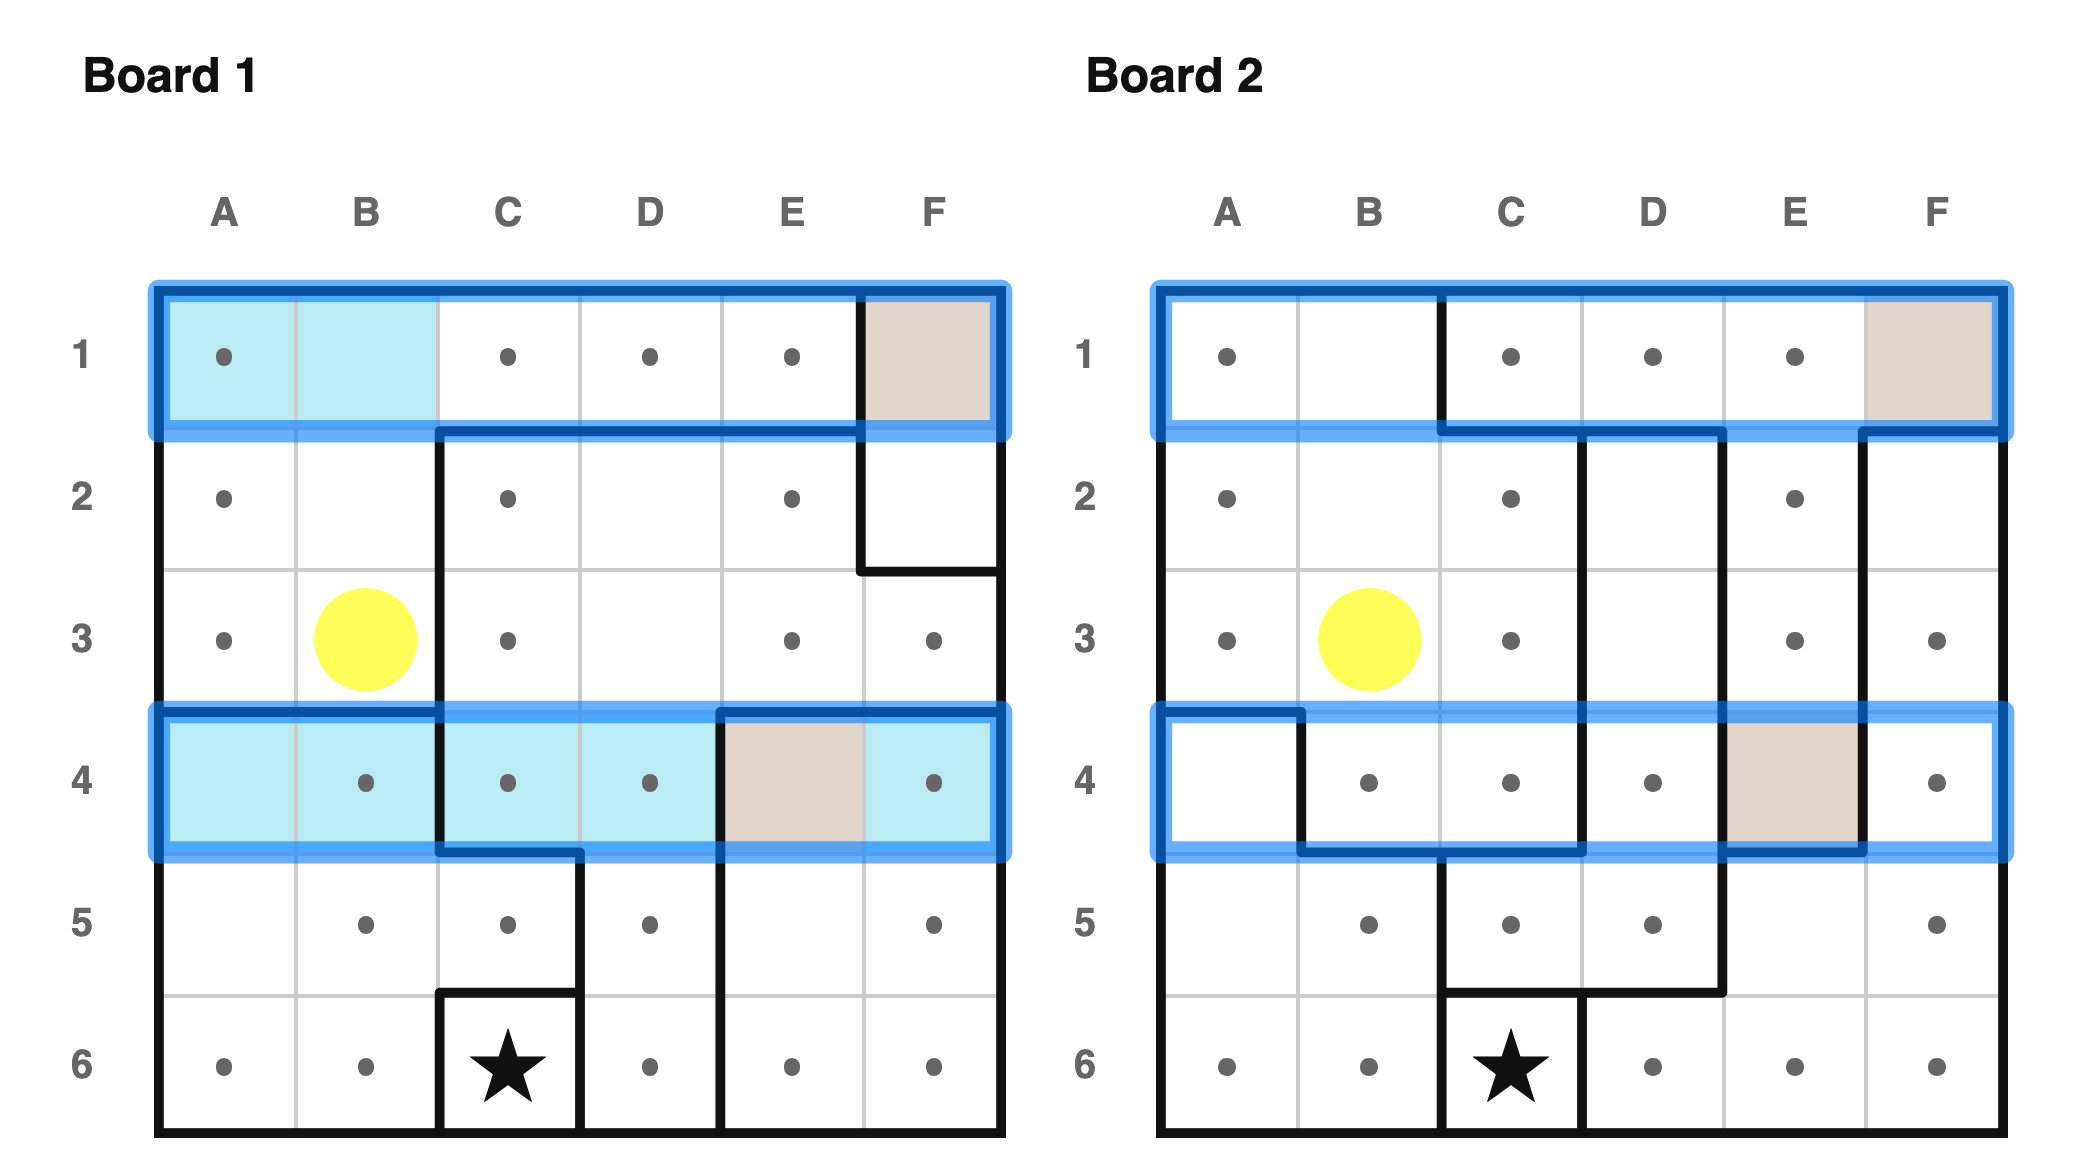
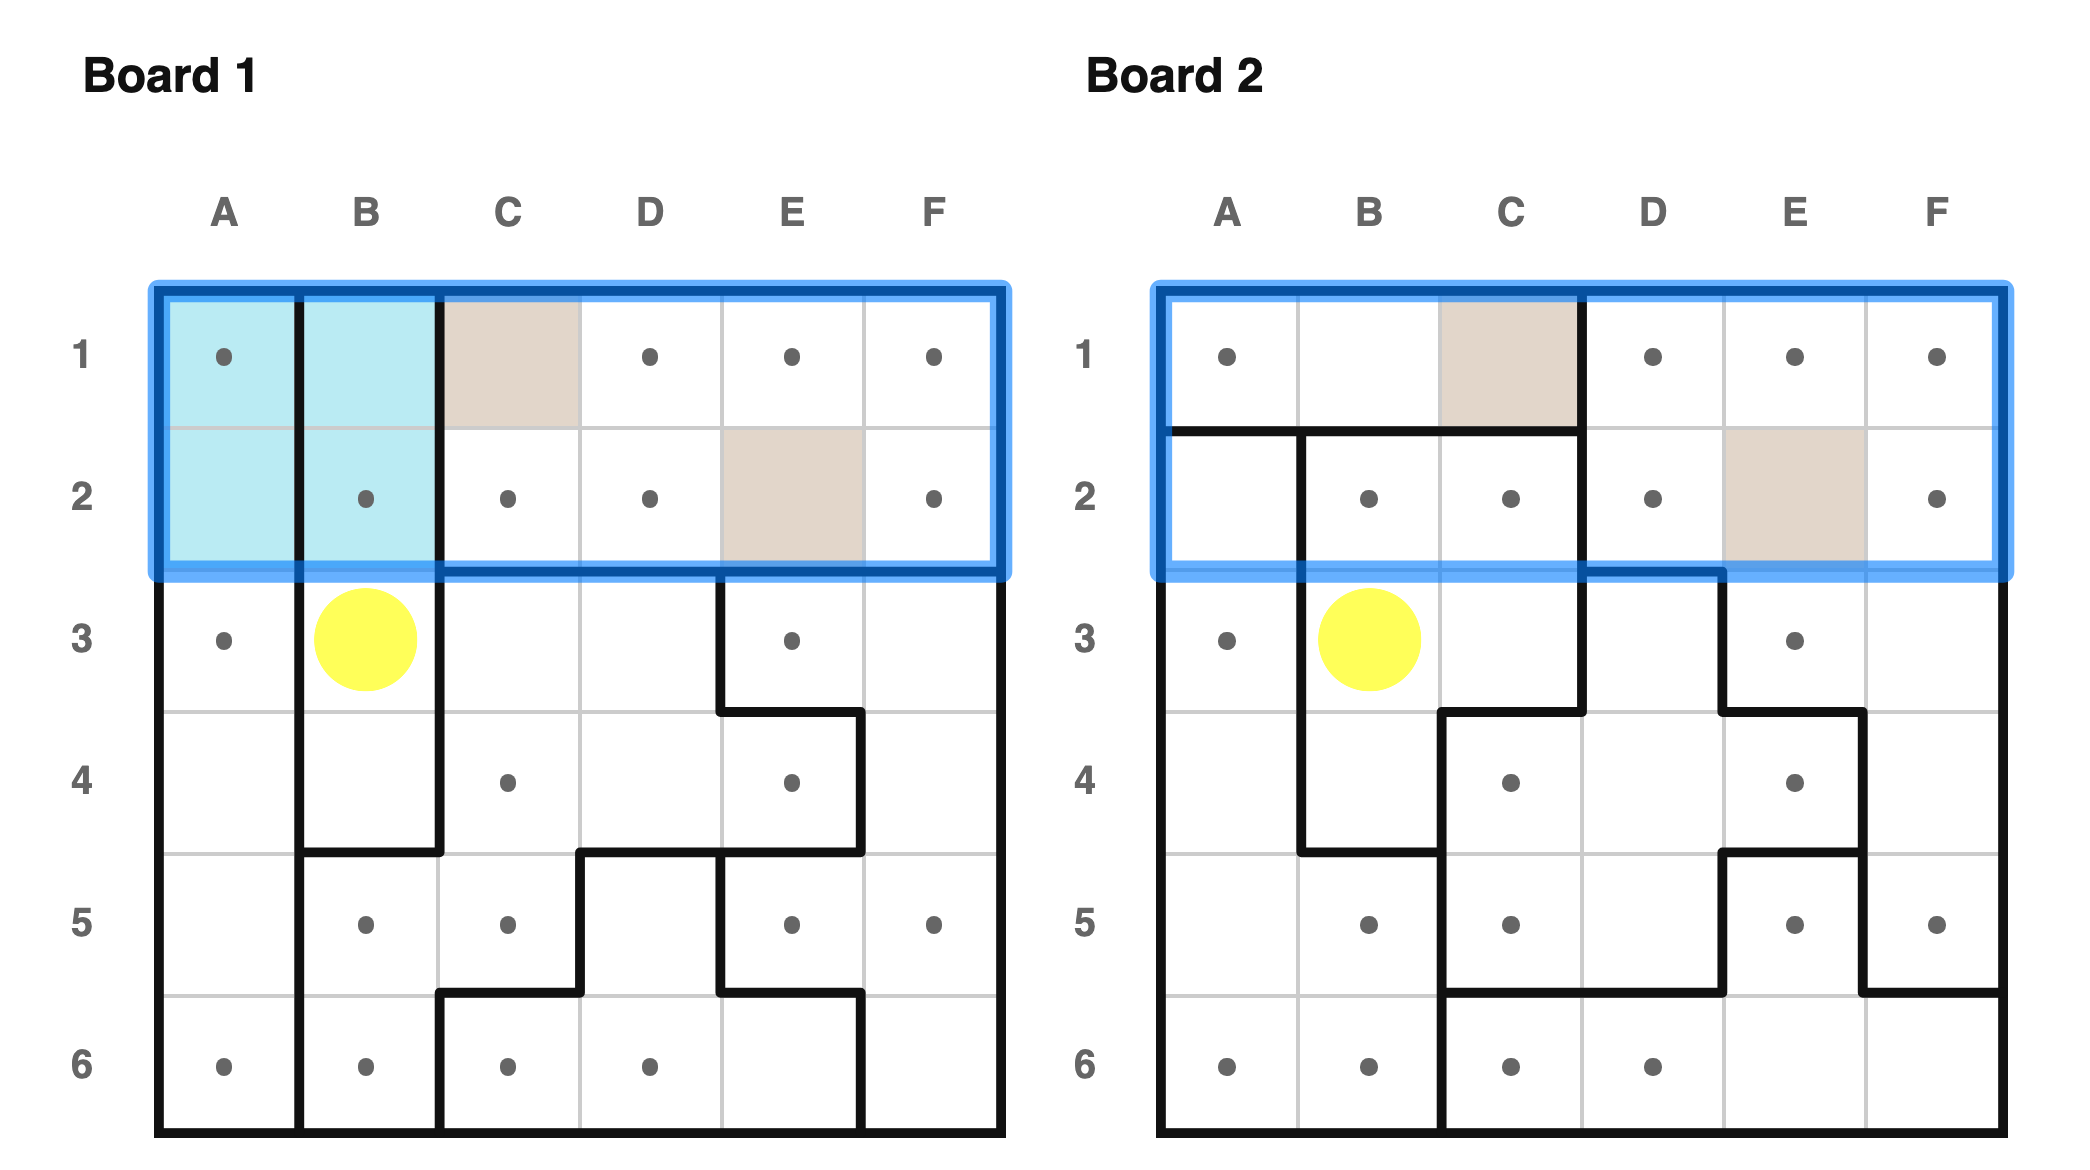
Split region algebra: touching pairs stay Expert, apart pairs become Grandmaster
Region algebra now only fires at Expert when units A and B share an edge;
the non-touching case is a new Grandmaster rule (rule_region_algebra_apart /
hintRegionAlgebra(true)), exempt from the 3-star+ Grandmaster cutoff.
Regionless puzzles are unchanged. Python and JS agree on 450 sampled puzzles.

Armory #41 and the how-to-solve docs now use a touching example.

diff --git a/solver-rules-common.js b/solver-rules-common.js
@@ -1,4 +1,5 @@
 import { CELL, HINT_COLOR, HINT_SOURCE_VARIANTS } from './constants.js';
+import { isRegionlessBoard } from './geometry.js';
 
 // Rules referenced, by the exact same underlying function, in both the
 // single-star and multi-star rule lists: error/already-solved checks,
@@ -571,9 +572,29 @@ export function applyCommonSolverRules(PuzzleSolver) {
   // candidate set for this C, found in time proportional to C's own cell
   // count rather than the total unit count -- measured at ~0.3ms/call on
   // the same 25x25/6★ board, matching the original's cost profile.
-  // Python port: rule_region_algebra in rules_common.py.
-  p.hintRegionAlgebra = function () {
+  //
+  // TOUCHING vs. APART (2026-10-17, user's call): when A and B share an edge
+  // (some cell of A is orthogonally adjacent to some cell of B) the union is
+  // one connected blob and easy to see, so the rule stays Expert
+  // (hintRegionAlgebra()). When they are APART the player has to hold two
+  // separate shapes in mind, so that case is its own Grandmaster rule
+  // (hintRegionAlgebra(true), first in the Grandmaster block). Regionless
+  // puzzles are exempt: there the Expert rule accepts every A/B pair and the
+  // Grandmaster one never fires.
+  // Python port: rule_region_algebra / rule_region_algebra_apart in
+  // rules_common.py.
+  p.hintRegionAlgebra = function (apart = false) {
     const n = this.n;
+    const regionless = this.game.regions.every(isRegionlessBoard);
+    if (apart && regionless) return null;
+    const touches = (ua, ub) => {
+      const bSet = new Set(ub.indices);
+      return ua.indices.some(i => {
+        const c = i % n;
+        return (c > 0 && bSet.has(i - 1)) || (c < n - 1 && bSet.has(i + 1))
+          || bSet.has(i - n) || bSet.has(i + n);
+      });
+    };
     const N = this.starsPerGroup;
     const starsText = N === 1 ? '1 star' : `${N} stars`;
     const hints = [];
@@ -607,6 +628,7 @@ export function applyCommonSolverRules(PuzzleSolver) {
           // boards are never added together. A row/column is on every
           // board, so it can pair with anything.
           if (ua.boardIdx !== undefined && ub.boardIdx !== undefined && ua.boardIdx !== ub.boardIdx) continue;
+          if (!regionless && touches(ua, ub) === apart) continue;
 
           const cSet = new Set(cUnit.indices);
           const rem = [...ua.indices, ...ub.indices].filter(i => !cSet.has(i));

diff --git a/solver-rules-multi.js b/solver-rules-multi.js
@@ -3381,6 +3381,10 @@ export function applyMultiStarRules(PuzzleSolver) {
       // rule in Expert. See the section comment above hintPartialSubset.
       { key: 'partialSubsetUnion',             fn: () => this.hintPartialSubsetUnion() },
       // Grandmaster
+      // Region algebra whose two units are apart (don't share an edge); the
+      // touching case is Expert, above -- see the section comment above
+      // hintRegionAlgebra. Matches Python's rule_region_algebra_apart.
+      { key: 'regionAlgebraApart',             fn: () => this.hintRegionAlgebra(true) },
       // Cross-board region/line quota fill + partition forced -- see the
       // section comment above hintCrossBoardRegionLineQuotaFill. Genuinely
       // cross-board only (same-board matches are already caught by the

diff --git a/solver-rules-single.js b/solver-rules-single.js
@@ -1011,6 +1011,10 @@ export function applySingleStarRules(PuzzleSolver) {
       { key: 'regionAlgebra',             fn: () => this.hintRegionAlgebra() },
       { key: 'regionPairPlacementForced', fn: () => this.hintRegionPairPlacementForced() },
       // Grandmaster
+      // Region algebra whose two units are apart (don't share an edge); the
+      // touching case is Expert, above -- see the section comment above
+      // hintRegionAlgebra.
+      { key: 'regionAlgebraApart',          fn: () => this.hintRegionAlgebra(true) },
       // Tiles rule 4b -- see the section comment above hintTilePairQuotaFill
       // in solver-rules-multi.js. The 3-or-more-tile generalization of
       // hintTilePairQuotaFill (Expert, above).

diff --git a/tools/scorer/rules_common.py b/tools/scorer/rules_common.py
@@ -286,9 +286,39 @@ class CommonRules:
     # to C's own cell count rather than the total unit count -- measured at
     # ~0.3ms/call on the same 25x25/6★ board, matching the original's cost
     # profile.
+    #
+    # TOUCHING vs. APART (2026-10-17, user's call): when A and B share an edge
+    # (some cell of A is orthogonally adjacent to some cell of B) the union
+    # is one connected blob and easy to see, so the rule stays at Expert
+    # (rule_region_algebra). When they are APART the player has to hold two
+    # separate shapes in mind, so that case is its own Grandmaster-tier rule
+    # (rule_region_algebra_apart, first in the Grandmaster block). Regionless
+    # puzzles are exempt: there every A/B pair is accepted by the Expert rule
+    # and the Grandmaster one never fires.
     # Matches hintRegionAlgebra in solver-rules-common.js.
+    @staticmethod
+    def _units_touch(p, ua, ub):
+        """True if some cell of ua shares an edge with some cell of ub."""
+        n = p.n
+        b_set = set(ub["indices"])
+        for i in ua["indices"]:
+            r, c = divmod(i, n)
+            if ((c > 0 and i - 1 in b_set) or (c < n - 1 and i + 1 in b_set)
+                    or (r > 0 and i - n in b_set) or (r < n - 1 and i + n in b_set)):
+                return True
+        return False
+
     def rule_region_algebra(self, p):
+        return self._region_algebra(p, apart=False)
+
+    def rule_region_algebra_apart(self, p):
+        return self._region_algebra(p, apart=True)
+
+    def _region_algebra(self, p, apart):
         N = p.stars_per_unit
+        regionless = all(p.regionless_boards)
+        if apart and regionless:
+            return 0
         for c_unit in p.units:
             live = [i for i in c_unit["indices"] if p.grid[i] != "."]
             if len(live) < 2:
@@ -319,6 +349,8 @@ class CommonRules:
                     # anything. Matches solver-rules-common.js.
                     if (ua["board_idx"] is not None and ub["board_idx"] is not None
                             and ua["board_idx"] != ub["board_idx"]):
+                        continue
+                    if not regionless and self._units_touch(p, ua, ub) == apart:
                         continue
                     c_set = set(c_unit["indices"])
                     rem = [i for i in ua["indices"] + ub["indices"] if i not in c_set]

diff --git a/tools/scorer/composite_scorer.py b/tools/scorer/composite_scorer.py
@@ -50,7 +50,8 @@ from .rules_multi_star import MultiStarRules
 # leaving either excluded would also open a fresh JS/Python parity gap on
 # top of the regression.
 MULTI_STAR_TIER_CUTOFF = "Expert"
-MULTI_STAR_CUTOFF_EXEMPT = {"rule_tile_pair_quota_fill_grandmaster", "rule_lookahead_dots"}
+MULTI_STAR_CUTOFF_EXEMPT = {"rule_tile_pair_quota_fill_grandmaster", "rule_lookahead_dots",
+                            "rule_region_algebra_apart"}
 
 
 class CompositeScorer(ScorerCore, CommonRules, SingleStarRules, MultiStarRules):
@@ -169,6 +170,9 @@ class CompositeScorer(ScorerCore, CommonRules, SingleStarRules, MultiStarRules):
             (self.rule_region_pair_placement_forced,        100, "Expert"),
 
             # -- Grandmaster --------------------------------------------------
+            # Region algebra whose two units are apart (don't share an edge);
+            # the touching case is Expert, above. See rules_common.py.
+            (self.rule_region_algebra_apart,                 95, "Grandmaster"),
             # Tiles rule 4b -- shared with 2★+, see rules_multi_star.py's
             # rule_tile_pair_quota_fill_grandmaster. The 3-or-more-tile
             # generalization of rule_tile_pair_quota_fill (Expert, above).
@@ -366,6 +370,11 @@ class CompositeScorer(ScorerCore, CommonRules, SingleStarRules, MultiStarRules):
             (self.rule_partial_subset_union,                      170, "Expert"),
 
             # -- Grandmaster ------------------------------------------------
+            # Region algebra whose two units are apart (don't share an edge);
+            # the touching case is Expert, above. See rules_common.py. Exempt
+            # from the 3★+ Grandmaster cutoff (MULTI_STAR_CUTOFF_EXEMPT): it
+            # costs exactly what the Expert-tier rule does.
+            (self.rule_region_algebra_apart,                      152, "Grandmaster"),
             # Cross-board region/line quota fill + partition forced -- see
             # rules_multi_star.py's "Cross-board region/line quota fill +
             # partition forced" section comment. Genuinely cross-board only

diff --git a/how_to_solve.md b/how_to_solve.md
@@ -600,6 +600,11 @@ The three units can be any mix of rows, columns and regions. The only
 combination that can't happen is a row paired with a column, because they
 always cross. The next three examples show some of the other combinations.
 
+In every example here, A and B touch (they share an edge), so the pair reads as
+one connected shape. The same reasoning also works when A and B are far apart,
+but that's much harder to spot, so the hint system treats it as a Grandmaster
+technique. (On regionless boards it stays Expert either way.)
+
 ---
 
 <a
@@ -634,11 +639,11 @@ between them, and C4 touches all four, so C4 must be a dot.
 href="index.html?book=armory&puzzle=41">
 <img src="images/region_algebra_rows_region.png" width="600"></img> </a>
 
-*Two rows, minus a region.* A and B are Row 1 and Row 4, together holding 2
-stars. C is the brown region from board 2, which has only two open cells left,
-F1 and E4 — one in each of the blue rows. Its star must be one of them, so the
-rest of the blue rows, which is just B1 and A4, holds exactly 1 star. B3 sees
-B1 (same column) and A4 (diagonally), so a star at B3 would leave neither of
+*Two rows, minus a region.* A and B are Row 1 and Row 2, together holding 2
+stars. C is the brown region from board 1, which has only two open cells left,
+C1 and E2 — one in each of the blue rows. Its star must be one of them, so the
+rest of the blue rows, which is just B1 and A2, holds exactly 1 star. B3 sees
+B1 (same column) and A2 (diagonally), so a star at B3 would leave neither of
 them available. B3 must be a dot.
 
 ### Lookahead

diff --git a/how_to_solve2.md b/how_to_solve2.md
@@ -539,7 +539,9 @@ those 2 remaining stars puts one next to the circled cell, so it must be a dot.
 
 As in part 1, the pair doesn't have to be two regions: any two non-overlapping
 rows, columns and regions work, and the third unit can be a row, a column or a
-region on either board. Two more examples:
+region on either board. As in part 1, the pair has to touch (share an edge) to
+count as Expert; a pair that's far apart is a Grandmaster technique. Two more
+examples:
 
 <a href="index.html?book=armory2&puzzle=34">
 <img src="images/multi_region_algebra_row_region.png" width="600"></img> </a>
